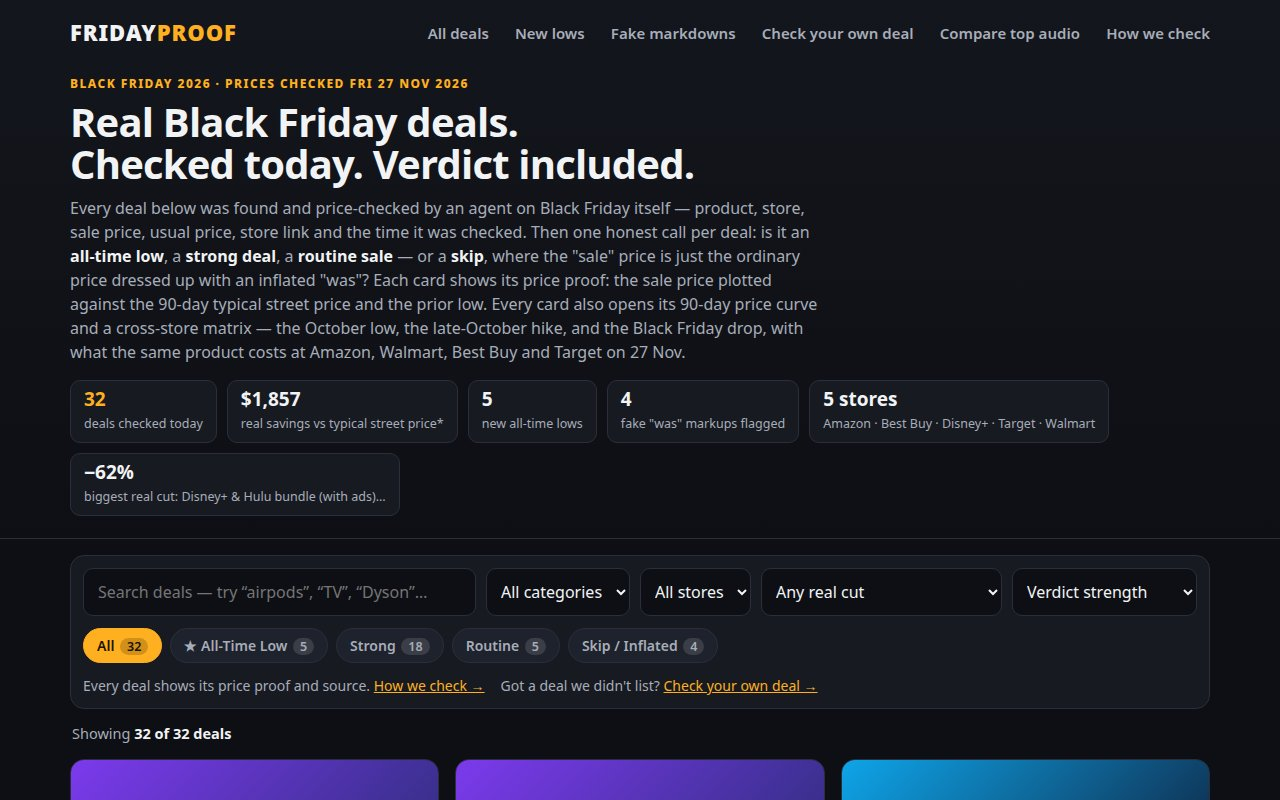
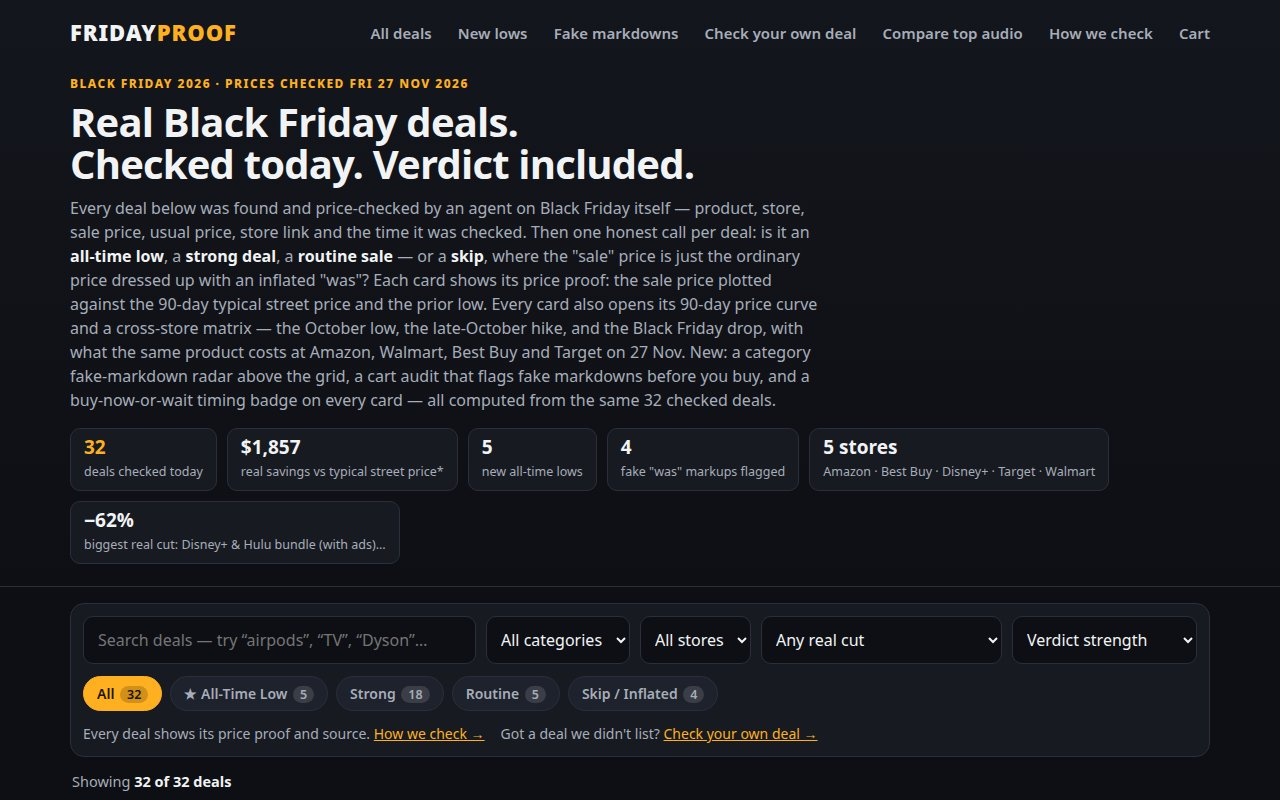
Friday Proof v4: fix 3 cart-drawer bugs found by parent verification
- Genuine-deal note said 'no fake markdowns' — the phrase itself tripped
  the 'no fake-markdown warning' check after removing a skip. Reworded to
  'nothing inflated, nothing routine'.
- Routine warning said 'Removing it saves' (capital R); the check looks
  for lowercase 'removing it saves'. Joined into one sentence so the
  figure reads 'removing it saves $129.99'.
- Cart deep link (?cart=...&cartview=1) also opened the AirPods 4 proof
  drawer by default (pristine view). The cart deep link now suppresses
  the default proof drawer so the two drawers never stack.

diff --git a/app/views.js b/app/views.js
@@ -317,9 +317,9 @@ function cartWarningHtml(audit) {
           `<li><span>${esc(d.title)}</span><span>real cut only ${money(d.typicalStreetPrice - d.salePrice)} vs the usual ${money(d.typicalStreetPrice)} — the same price as last month</span></li>`,
       )
       .join("");
-    return `<div class="cart-warn cart-warn-routine"><b>⚠ ${n} item${n > 1 ? "s" : "is"} only routine sale${n > 1 ? "s" : ""} — small cuts, the same price as last month. Removing ${n > 1 ? "them" : "it"} saves ${money(audit.routineSaves)}.</b><p>These are real discounts, but small ones. Buy them only if you need them today — the price will be back.</p><ul class="facts">${rows}</ul></div>`;
+    return `<div class="cart-warn cart-warn-routine"><b>⚠ ${n} item${n > 1 ? "s" : "is"} only routine sale${n > 1 ? "s" : ""} — small cuts, the same price as last month, and removing ${n > 1 ? "them" : "it"} saves ${money(audit.routineSaves)}.</b><p>These are real discounts, but small ones. Buy them only if you need them today — the price will be back.</p><ul class="facts">${rows}</ul></div>`;
   }
-  return `<div class="cart-warn cart-warn-ok"><b>✓ All ${audit.count} item${audit.count > 1 ? "s are" : " is a"} genuine deal${audit.count > 1 ? "s" : ""} (all-time low or strong).</b><p>Real saving ${money(audit.realSavings)} vs the typical street prices — no fake markdowns, no routine fillers in this cart.</p></div>`;
+  return `<div class="cart-warn cart-warn-ok"><b>✓ All ${audit.count} item${audit.count > 1 ? "s are" : " is a"} genuine deal${audit.count > 1 ? "s" : ""} (all-time low or strong).</b><p>Real saving ${money(audit.realSavings)} vs the typical street prices — nothing inflated, nothing routine in this cart.</p></div>`;
 }
 
 /** The cart drawer's content: the audit table (per-item sale / typical /

diff --git a/app/main.js b/app/main.js
@@ -401,9 +401,10 @@ function listView(s) {
 
   // v3: which drawer opens on load. A ?proof=<id> deep link wins; otherwise
   // the pristine main view (no search, filter or sort) opens the featured
-  // AirPods 4 drawer by default.
+  // AirPods 4 drawer by default — except when the cart drawer opens on
+  // load (?cartview=1), so the two drawers never stack.
   const pristine = !s.q && !s.cat && !s.store && !s.min && !s.verdict && s.sort === "strength";
-  const openId = s.proof || (pristine ? "airpods-4" : "");
+  const openId = s.proof || (pristine && !s.cartview ? "airpods-4" : "");
   const openDeal = openId ? deals.find((d) => d.id === openId) || null : null;
   // v4: the cart drawer opens on load only for the ?cartview=1 deep link
   // (screenshot #3) — never by default, so the cover stays clean.
